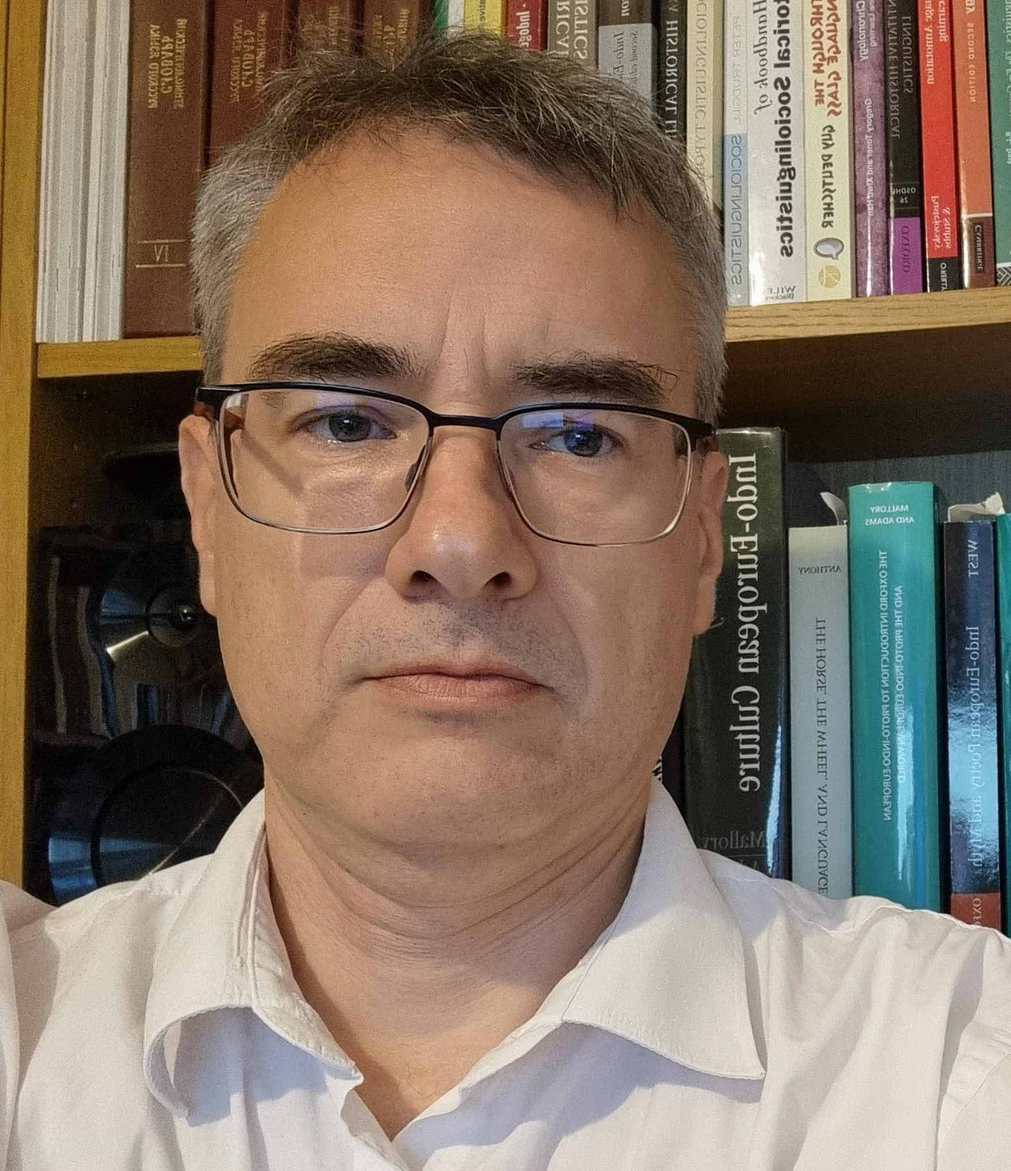
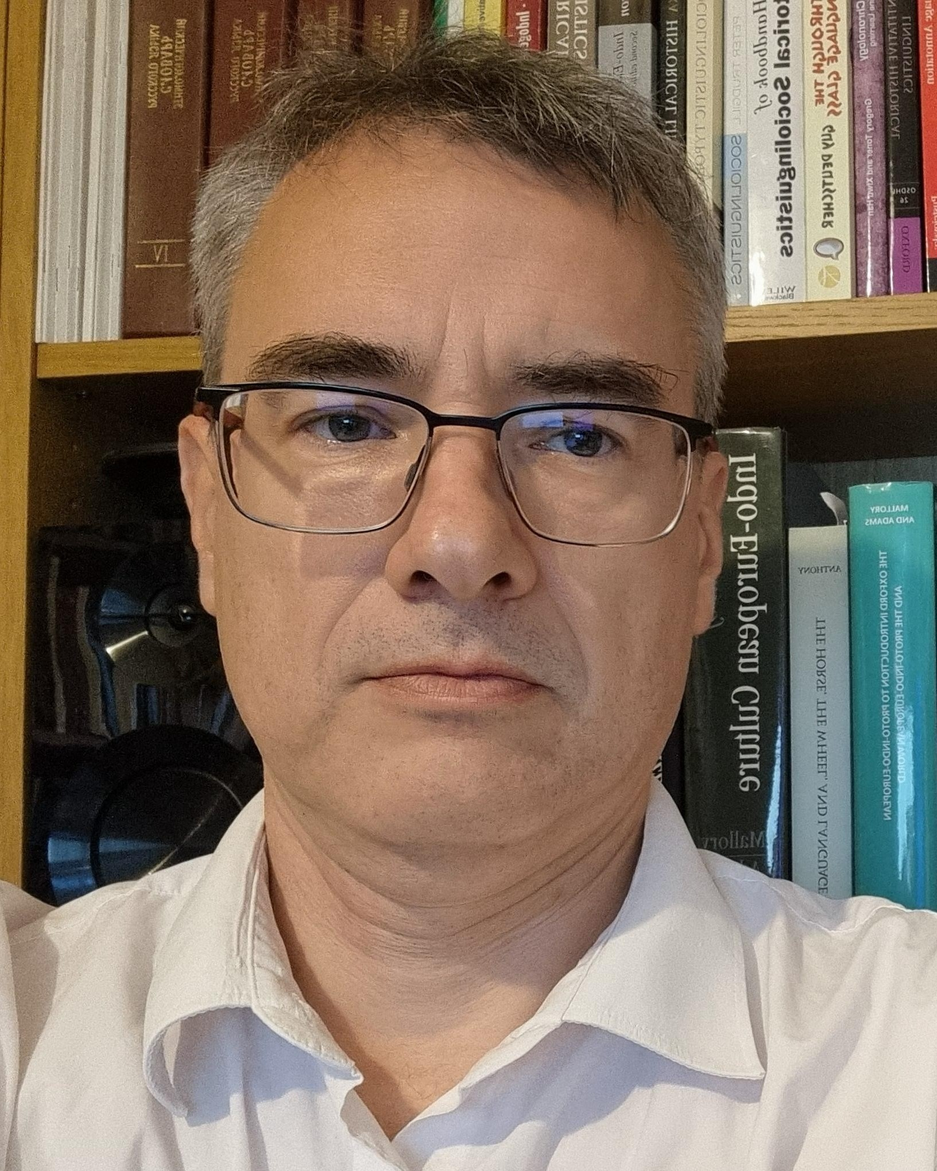
Updating diagnostic website to display team images properly.

diff --git a/diagnostic/styles.css b/diagnostic/styles.css
@@ -196,8 +196,7 @@ body {
 .team-card > img {
   display: block;
   width: 100%;
-  aspect-ratio: 4 / 5;
-  object-fit: cover;
+  height: auto;
   border-radius: 9px;
   background: var(--brand-light);
 }
